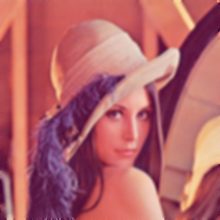
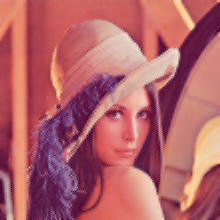
wack optimization of gaussian blur, worse image, shaved 1 second

diff --git a/ruby/Image.rb b/ruby/Image.rb
@@ -115,11 +115,16 @@ class Image
     blur = ChunkyPNG::Image.from_file(pathForImage)
 
     t1 = Time.now
-
+    # this section takes approximately 4.2482 seconds. The Lenna image is 220x220 pixels, so:
+    # 220^2 = 48400. 4.2482 / 48400 -> each pixel takes approximately 0.0877 milliseconds to be processed.
     for j in 2..(height)
       for i in 2..(width)
-        pixel = cpvFilter5Optimize(blurFilter, @picture, i, j, false)
-        blur[i, j] = ChunkyPNG::Color.rgb(pixel[0].to_i, pixel[1].to_i, pixel[2].to_i)
+        if i % 2 == 0 || j % 2 == 0 then
+          pixel = cpvFilter5Optimize(blurFilter, @picture, i, j, false)
+          blur[i, j] = ChunkyPNG::Color.rgb(pixel[0].to_i, pixel[1].to_i, pixel[2].to_i)
+        else
+          #
+        end
       end
     end
 
@@ -228,12 +233,13 @@ class Image
     value = [0, 0, 0]
     for i in 0..4
       for j in 0..4
-        if grayscale then
-          value[0] += filter[i][j] * ChunkyPNG::Color.r(img[(currX-2)+j, (currY-2)+i])
-        else
-          value[0] += filter[i][j] * ChunkyPNG::Color.r(img[(currX-2)+j, (currY-2)+i])
+        value[0] += filter[i][j] * ChunkyPNG::Color.r(img[(currX-2)+j, (currY-2)+i])
+
+        if !grayscale then
           value[1] += filter[i][j] * ChunkyPNG::Color.g(img[(currX-2)+j, (currY-2)+i])
           value[2] += filter[i][j] * ChunkyPNG::Color.b(img[(currX-2)+j, (currY-2)+i])
+        else
+
         end
       end
     end
